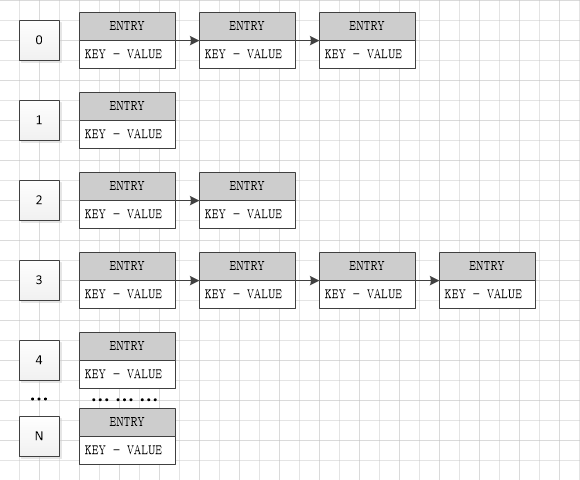
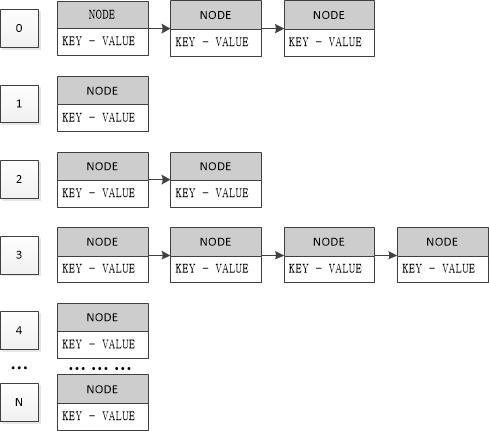
hash-map.png

diff --git a/java/hash-map.md b/java/hash-map.md
@@ -1,16 +1,27 @@
-# WHAT
+# 简介
 
-`HashMap`是一个我们使用非常多的用于存储Key-Value键值对的集合,它是基于哈希表的Map接口的实现。在`HashMap`中，Key-Valuee总是会当做一个整体来处理，根据hash算法来来计算Key-Value的存储位置，我们总是可以通过`Key`快速地存取`Value`
-
-# WHY
+`HashMap`是一个我们使用非常多的用于存储Key-Value键值对的集合,它是基于哈希表的Map接口的实现。在`HashMap`中，Key-Valuee总是会当做一个整体来处理，根据hash算法来来计算Key-Value的存储位置，我们总是可以通过`Key`快速地存取`Value`。
 
 我们使用的数据结构中，有两个最基本的数据结构：`数组`和`链表`，它们的特点刚好相反：
 * `数组`增加删除元素慢，查询元素快
 * `链表`增加删除元素快，查询元素慢
 
-Java中的`HashMap`将两者结合在一起，发挥各自的优点，使得`HashMap`不仅可以快速查询结构中的元素，也可以快速对结构中的元素进行增加或者删除
+Java中的`HashMap`将两者结合在一起，发挥各自的优点，使得`HashMap`不仅可以快速查询结构中的元素，也可以快速对结构中的元素进行增加或者删除。
 
-# HOW
+# 数据结构
 
+先看图：
 
 ![Image](https://chronosc.github.io/images/java-hash-map.png)
+
+`HashMap`中定义了一个数组`table`，即为上图0-N的数据结构，数据类型为上图中的`ENTRY`
+```
+    /**
+     * The table, initialized on first use, and resized as
+     * necessary. When allocated, length is always a power of two.
+     * (We also tolerate length zero in some operations to allow
+     * bootstrapping mechanics that are currently not needed.)
+     */
+    transient Node<K,V>[] table;
+```
+
